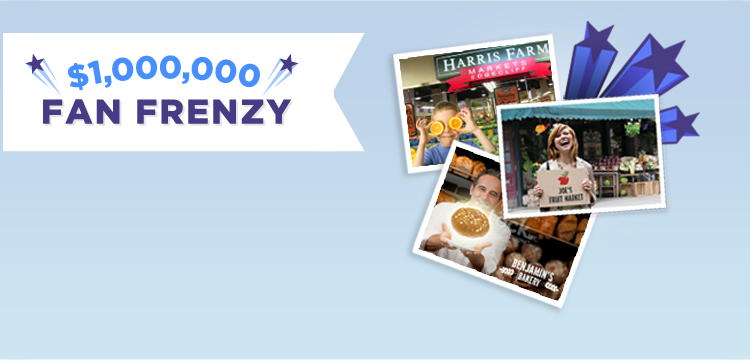
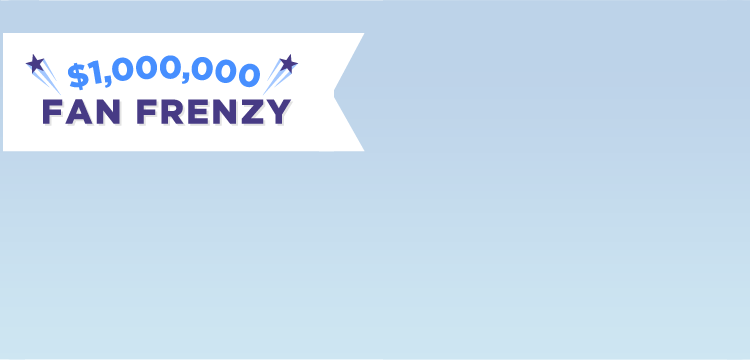
update UI

Changed region(s): [[0.5213, 0.0611, 0.9507, 0.8556]]

diff --git a/static/js/skin/red/crop_image.js b/static/js/skin/red/crop_image.js
@@ -255,8 +255,8 @@ function fileSelectHandler(error) {
 
             // check for file size
             
-            if (oFile.size > 1048576) {
-            	$('#button-upload').validationEngine('showPrompt', '* Your file must be less than 1MB, please select smaller one', 'red', null, true);
+            if (oFile.size > 1048576*3) {
+            	$('#button-upload').validationEngine('showPrompt', '* Your file must be less than 3MB, please select smaller one', 'red', null, true);
         //    $('.error').html('Your file must be less than 1MB, please select smaller one').show();
                 return;
             }
@@ -282,8 +282,8 @@ function fileSelectHandler(error) {
 
                     // check for file size
                     
-                    if (window.imageInfo.size > 1048576) {
-                        $('#button-upload').validationEngine('showPrompt', '* Your file must be less than 1MB, please select smaller one', 'red', null, true);
+                    if (window.imageInfo.size > 1048576 * 3) {
+                        $('#button-upload').validationEngine('showPrompt', '* Your file must be less than 3MB, please select smaller one', 'red', null, true);
                 //    $('.error').html('Your file must be less than 1MB, please select smaller one').show();
                         return;
                     }
@@ -316,7 +316,7 @@ function fileSelectHandler(error) {
                     oImage.width = nWidth;
                     oImage.height = nHeight;
                     if (imageData.w < 618 || imageData.h < 441){
-                        $('#button-upload').validationEngine('showPrompt', '*Your image must be 618 x 441', 'red', null, true);
+                        $('#button-upload').validationEngine('showPrompt', '* Your image at least must be 618 x 441', 'red', null, true);
                     } else {
                         showImage();
                     }
@@ -344,7 +344,7 @@ function fileSelectHandler(error) {
                             ns: nWidth/window.imageInfo.width
                         }
                         if (imageData.w < 618 || imageData.h < 441){
-                            $('#button-upload').validationEngine('showPrompt', '*Your image must be 618 x 441', 'red', null, true);
+                            $('#button-upload').validationEngine('showPrompt', '* Your image at least must be 618 x 441', 'red', null, true);
                             $(".loading").hide();
                             clearInterval(itv);
                         } else {
@@ -363,7 +363,7 @@ function fileSelectHandler(error) {
                 }, 1000);
             } else if (parseInt(window.imageInfo.error) === 2){
                 if (!onErrorShowing) {
-                    $('#button-upload').validationEngine('showPrompt', '* Your file must be less than 1MB, please select smaller one', 'red', null, true);
+                    $('#button-upload').validationEngine('showPrompt', '* Your file must be less than 3MB, please select smaller one', 'red', null, true);
                     onErrorShowing = true;
                 }
                 $(".loading").hide();
@@ -400,7 +400,7 @@ function validateBeforeSubmit(){
                     var imgWidth = $('#w').val();
                     var imgHeight = $('#h').val();
                     if (imgWidth < 618 || imgHeight < 441){
-                        $('#button-upload').validationEngine('showPrompt', '* Your image must be 618 x 441', 'red', null, true);
+                        $('#button-upload').validationEngine('showPrompt', '* Your image at least must be 618 x 441', 'red', null, true);
                         $return = false;
                     } else if (imgWidth > 618 || imgHeight > 441){
                         $('#button-upload').validationEngine('showPrompt', '* Please select a crop region', 'red', null, true);

diff --git a/static/css/fanfrenzy.css b/static/css/fanfrenzy.css
@@ -24,11 +24,11 @@
 	line-height: 17px;
 	width: 331px;
 	padding-top: 160px;
-	padding-left: 56px;
+	padding-left: 43px;
 }
 .button-top{
 	margin-top: 30px;
-	margin-left: 50px;
+	margin-left: 43px;
 }
 .button-bottom{
 	margin-left: 50px;
@@ -72,7 +72,7 @@
 }
 .entries-for-my ul li{
 	float: left;
-	margin-left: 6px;
+	margin-left: -3px;
 	margin-right: 5px;
 	font-size: 16px;
 	color: #555555;
@@ -121,7 +121,7 @@ ul li.active{
 	margin-top: 5px;
 /*	margin-left: 3px;*/
 	color: #555555;
-	text-decoration: underline;
+/*	text-decoration: underline;*/
 }
 .content{
 	text-decoration: underline;
@@ -217,8 +217,8 @@ p.txt-past{
 	background-color: #d3e6ec;
 }
 .block-list .fan-frenzy-logo{
-	left: -6px;
-}
+	left: -4px;
+}                                             
 .block-list .text-content-top{
 	width: 455px;
 	margin-top: 0;

diff --git a/static/css/detail.css b/static/css/detail.css
@@ -100,7 +100,7 @@ p.txt-this-retailer a{
 	background: url(/images/btn-edit.jpg) 0 0 no-repeat;
 }
 .dt-photo-info-top span{
-	text-decoration: underline;
+	text-decoration: none;
 	font-size: 14px;
 	font-family:Arial, Helvetica, sans-serif;
 }

diff --git a/admin/photos.php b/admin/photos.php
@@ -108,18 +108,40 @@ switch ($_GET["photo_status"]){
 		$smarty->assign('status_text', "rejected");
 		break;
 	case 0:
-	default:
 		$status_display = 0; //show pending photo
 		$smarty->assign('status_text', "pending");
 		break;
+	default:
+		$status_display = 3; //show pending photo
+		$smarty->assign('status_text', "");
+		break;
 }
+$smarty->assign('photo_status', $status_display);
+
+
+
+$search_criteria = '';	
+if (!empty($_GET['search_text'])) {
+	$search_criteria = " AND (photo.unique_id LIKE '%".$_GET['search_text']."%')";
+	$smarty->assign('search_text', $_GET['search_text']);
+}
+
+$status_criteria = "";
+if ($status_display == 1 || $status_display == 2 || $status_display === 0){
+	$status_criteria = " AND photo.approved = {$status_display}";
+}
+
+
+
 
 $sql = "SELECT COUNT(*) AS count FROM (
 					SELECT photo.*, consumer.bu_name As consumer, retailer.bu_name As retailer, COUNT(fans.fan_id) As fan_count FROM photo_promo photo
 					LEFT JOIN photo_promo_fan fans ON fans.photo_id = photo.photo_id 
 					LEFT JOIN aus_soc_bu_detail consumer ON consumer.StoreID = photo.consumer_id
 					LEFT JOIN aus_soc_bu_detail retailer ON retailer.StoreID = photo.store_id
- 					WHERE photo.approved = {$status_display}
+ 					WHERE 1 
+ 					".((!empty($search_criteria)) ? $search_criteria : "")."
+ 					".((!empty($status_criteria)) ? $status_criteria : "")."
 					GROUP BY photo.photo_id ORDER BY fan_count DESC, photo.timestamp DESC)  AS tmp WHERE 1";
 					
 					
@@ -145,15 +167,17 @@ $sql = "SELECT COUNT(*) AS count FROM (
 				GROUP BY photo.photo_id ORDER BY fan_count DESC, photo.timestamp ASC LIMIT $start, $perPage";
 		*/
 		
-		$sql = "SELECT photo.*, consumer.bu_name As consumer, retailer.bu_name As retailer, COUNT(fans.fan_id) As fan_count FROM photo_promo photo
+		$sql = "SELECT photo.*, consumer.bu_name As consumer, retailer.bu_name As retailer, COUNT(fans.fan_id) As fan_count, 
+						promo_store_codes.code AS code
+				FROM photo_promo photo
 				LEFT JOIN photo_promo_fan fans ON fans.photo_id = photo.photo_id 
 				LEFT JOIN aus_soc_bu_detail consumer ON consumer.StoreID = photo.consumer_id
 				LEFT JOIN aus_soc_bu_detail retailer ON retailer.StoreID = photo.store_id
-				WHERE photo.approved = {$status_display}
+				LEFT JOIN promo_store_codes ON promo_store_codes.store_id = photo.store_id
+				WHERE 1
+				".((!empty($search_criteria)) ? $search_criteria : "")."
+ 				".((!empty($status_criteria)) ? $status_criteria : "")."
 				GROUP BY photo.photo_id ORDER BY photo.photo_id DESC, photo.timestamp ASC LIMIT $start, $perPage";
-		
-		
-		
 		
 		
 		$dbcon->execute_query($sql);

diff --git a/fanpromo/enter1.php b/fanpromo/enter1.php
@@ -1,5 +1,5 @@
 <?php
-ini_set('display_errors', 1);
+ini_set('display_errors', 0);
 error_reporting(E_ALL);
 
 @session_start();
@@ -158,8 +158,9 @@ if (isset($_POST['code']) && $consumer_id > 0) {
                     mkdir($upload_dir, 0777);
                     umask($old);
                 }
-				
-				$image_name = uniqid().'.jpg';
+                
+                $unique_id = uniqid();
+                $image_name = $unique_id.'.jpg';
 				$brand_name = "brand_".$image_name;
 				
 				
@@ -169,13 +170,34 @@ if (isset($_POST['code']) && $consumer_id > 0) {
 				//$im->setImageBackgroundColor('white');
 				//$im->setCompressionQuality(100);
 				if ($_POST['x1'] > 0){
+					$x1 = (int)$_POST['x1'];
+					$y1 = (int)$_POST['y1'];
+				}else{
+					$x1 = 0;
+					$y1 = 0;
+				}
+				/*
+				if ($_POST['x1'] > 0){
 					//$im->cropImage((int)$_POST['w'], (int)$_POST['h'], (int)$_POST['x1'], (int)$_POST['y1']);
 					$im->cropImage(618, 441, (int)$_POST['x1'], (int)$_POST['y1']);
 				}else{
 					$im->cropImage(618, 441, 0, 0);
 				}
+				*/
 				
+				if ($_FILES["file"]["type"] == "image/gif"){
+					 $im = $im->coalesceImages(); 
+					foreach ($im as $frame) { 
+					  $frame->cropImage(618, 441, $x1, $y1); 
+					  $frame->thumbnailImage(618, 441); 
+					  $frame->setImagePage(618, 441, 0, 0); 
+					} 
+					$im = $im->deconstructImages(); 
+				}else{
+					$im->cropImage(618, 441, $x1, $y1);
+				}
 				$im->setImageFormat('jpg');
+				
 				
 				$image_path = $upload_folder.$image_name;
 				$brand_path = $upload_folder.$brand_name;
@@ -194,7 +216,7 @@ if (isset($_POST['code']) && $consumer_id > 0) {
 				$im->thumbnailImage(290, 180);
 				$im->writeImage(getcwd(). "/". $thumb_path);
 				
-				$photo_id = insert_photo($dbcon, $retailer_id, $_POST['retailer_location'], $consumer_id, $image_path, $thumb_path, $description, $state_id, $category_id, $retailer_name);
+				$photo_id = insert_photo($dbcon, $retailer_id, $_POST['retailer_location'], $consumer_id, $image_path, $thumb_path, $description, $state_id, $category_id, $retailer_name, $unique_id);
 				
 			
 				if ($photo_id > 0) {

diff --git a/fanpromo/list.php b/fanpromo/list.php
@@ -1,22 +1,7 @@
 <?php
-ini_set('display_errors', 1);
+ini_set('display_errors', 0);
 error_reporting(E_ALL);
 @session_start();
-
-$loginSuccessful = false;
-if (isset($_SERVER['PHP_AUTH_USER']) && isset($_SERVER['PHP_AUTH_PW'])){
-    $username = $_SERVER['PHP_AUTH_USER'];
-    $password = $_SERVER['PHP_AUTH_PW'];
-    if ($username == 'admin' && $password == 'KahnKazzi88'){
-        $loginSuccessful = true;
-    }
-}
-if (!$loginSuccessful){
-    header('WWW-Authenticate: Basic realm="Secret page"');
-    header('HTTP/1.0 401 Unauthorized');
-    print "Login failed!\n";
-    exit;
-}
 
 include_once ('../include/config.php');
 include_once ('../include/smartyconfig.php');
@@ -89,7 +74,7 @@ function view_photos($grand_final = false) {
 		
 		$search_criteria = '';	
 		if (!empty($_POST['search_name'])) {
-			$search_criteria = " AND ((retailer.bu_name LIKE '%".$_POST['search_name']."%') OR (consumer.bu_name LIKE '%".$_POST['search_name']."%') OR (photo.description LIKE '%".$_POST['search_name']."%'))";
+			$search_criteria = " AND ((retailer.bu_name LIKE '%".$_POST['search_name']."%') OR (consumer.bu_name LIKE '%".$_POST['search_name']."%') OR (photo.description LIKE '%".$_POST['search_name']."%') OR (photo.unique_id LIKE '%".$_POST['search_name']."%'))";
 		}
 		
 		$search_sort = '';
@@ -136,7 +121,7 @@ function view_photos($grand_final = false) {
 		
     	$res = $dbcon->getOne($sql);
     	
-    	$perPage = 9;	   
+    	$perPage = 18;	   
 		$pageno	= empty($_REQUEST['p']) ? 1 :$_REQUEST['p'];		
 		
     	$count = $res['count'];

diff --git a/soc/index.php b/soc/index.php
@@ -98,7 +98,7 @@ function view_photos_customer() {
             
     $res = $dbcon->getOne("SELECT COUNT(*) As count FROM photo_promo WHERE consumer_id = '".$_SESSION['StoreID']."'");
     
-    $perPage = 10;       
+    $perPage = 18;       
     $pageno    = empty($_REQUEST['p']) ? 1 :$_REQUEST['p'];
     
     $count = $res['count'];
@@ -190,9 +190,9 @@ function view_photos_customer() {
             if (!empty($info['next_p'])) {                        
                 echo '<span class="txt-next" id="list_next" ><a href="javascript:void(0)">Next ></a></span>';
             }
+             echo '</div>';  
         }
-        echo '</div>';
-        
+       
     
         echo '<script>
         
@@ -238,7 +238,7 @@ function view_photos_seller($owner=true) {
     }else{
         $res = $dbcon->getOne("SELECT COUNT(*) As count FROM photo_promo WHERE store_id = '".$_SESSION['StoreID']."' AND photo_promo.approved=1");   
     }
-    $perPage = 10;       
+    $perPage = 18;       
     $pageno    = empty($_REQUEST['p']) ? 1 :$_REQUEST['p'];
     
     $count = $res['count'];
@@ -338,8 +338,9 @@ function view_photos_seller($owner=true) {
             if (!empty($info['next_p'])) {                        
                 echo '<span class="txt-next" id="list_next" ><a href="javascript:void(0)">Next ></a></span>';
             }
+            echo '</div>'; 
         }
-        echo '</div>';
+        
         
         echo '<script>
         

diff --git a/fanpromo/functions.inc.php b/fanpromo/functions.inc.php
@@ -33,7 +33,7 @@ function tab_content_by_key_name($dbcon, $key_name = "") {
  * @param unknown_type $thumb_path
  * @param unknown_type $description
  */
-function insert_photo($dbcon, $store_id, $retailer_location, $consumer_id, $image_path = "", $thumb_path = "", $description = "", $state_id = 0, $category_id = 0, $retailer_name = "") {
+function insert_photo($dbcon, $store_id, $retailer_location, $consumer_id, $image_path = "", $thumb_path = "", $description = "", $state_id = 0, $category_id = 0, $retailer_name = "", $unique_id = "") {
 	$photo_record = array(
 		'store_id' => $store_id,
 		'retailer_location' => $retailer_location,
@@ -43,7 +43,8 @@ function insert_photo($dbcon, $store_id, $retailer_location, $consumer_id, $imag
 		'description' => $description,
 		'state_id' => $state_id,
 	 	'category_id'=> $category_id,
-		'retailer_name'=> $retailer_name,  
+		'retailer_name'=> $retailer_name,
+		'unique_id' => $unique_id,  
 	);
 	$dbcon->insert_query('photo_promo', $photo_record);
 	return $dbcon->lastInsertId();

diff --git a/fanpromo/tool_generate_id.php b/fanpromo/tool_generate_id.php
@@ -1,0 +1,32 @@
+<?php
+//generate unique_id for photo
+
+ini_set('display_errors', 1);
+@session_start();
+
+include_once ('../include/config.php');
+include_once ('../include/smartyconfig.php');
+include_once ('functions.inc.php');
+include_once ('maininc.php');
+include_once ('class.soc.php');
+
+include_once('../languages/'.LANGCODE.'/soc.php');
+include_once('../languages/'.LANGCODE.'/foodwine/index.php');
+
+
+$sql = "SELECT * FROM photo_promo";
+
+$dbcon->execute_query($sql);
+			$res = $dbcon->fetch_records(true);
+
+foreach ($res as $row){
+	$sql = "";
+	if (!$row["unique_id"]){
+		$sql = "UPDATE photo_promo SET unique_id = '" . uniqid() . "' WHERE photo_id = {$row["photo_id"]}";
+		$dbcon->execute_query($sql);
+	}
+}
+echo "done";
+
+
+?>

diff --git a/soc/url_index.php b/soc/url_index.php
@@ -133,7 +133,8 @@ switch($_REQUEST["cp"]) {
         $templateInfo = $socObj -> getTemplateInfo();
         $smarty -> assign('templateInfo', $templateInfo);
         $smarty -> assign('sellerhome', 1);
-        $smarty -> assign('req',	$req);
+        $smarty -> assign('req',    $req);
+        $smarty -> assign('retailer_name',	$req['info']['bu_name']);
         $smarty -> assign('pageTitle',$req['info']['bu_name']." ".$req['info']['bu_suburb']." : ".$req['info']['subAttribName'].' : Food Market Place');
         $custom_seo_keywords = TRUE;
         $smarty -> assign('keywords',$req['info']['subAttribName'].",".$req['info']['bu_suburb'].",".$req['info']['bu_state']);

diff --git a/fanpromo/ie_upload.php b/fanpromo/ie_upload.php
@@ -85,7 +85,8 @@ if ($_FILES["file"]["name"]){
 	
 	$data = "";
 	//if ($_FILES['file']['size'] <= (1048576)){
-	if ($_FILES['file']['size'] <= (1048576) && $_FILES['file']['size'] > 0 && $file_type){
+	//3MB allowed
+	if ($_FILES['file']['size'] <= (1048576*3) && $_FILES['file']['size'] > 0 && $file_type){
 
 
 		$im = new Imagick($_FILES["file"]["tmp_name"]);
